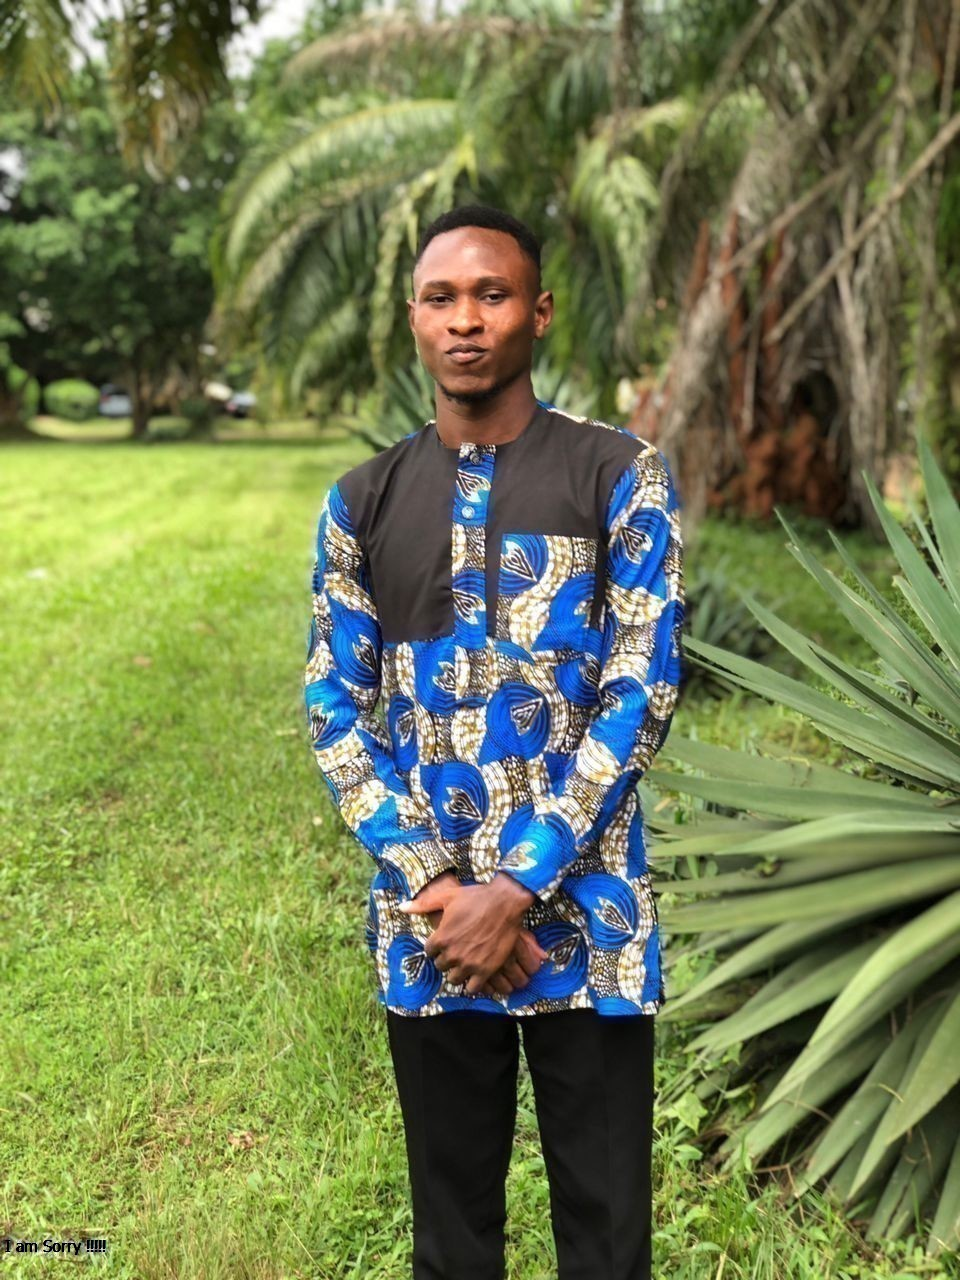
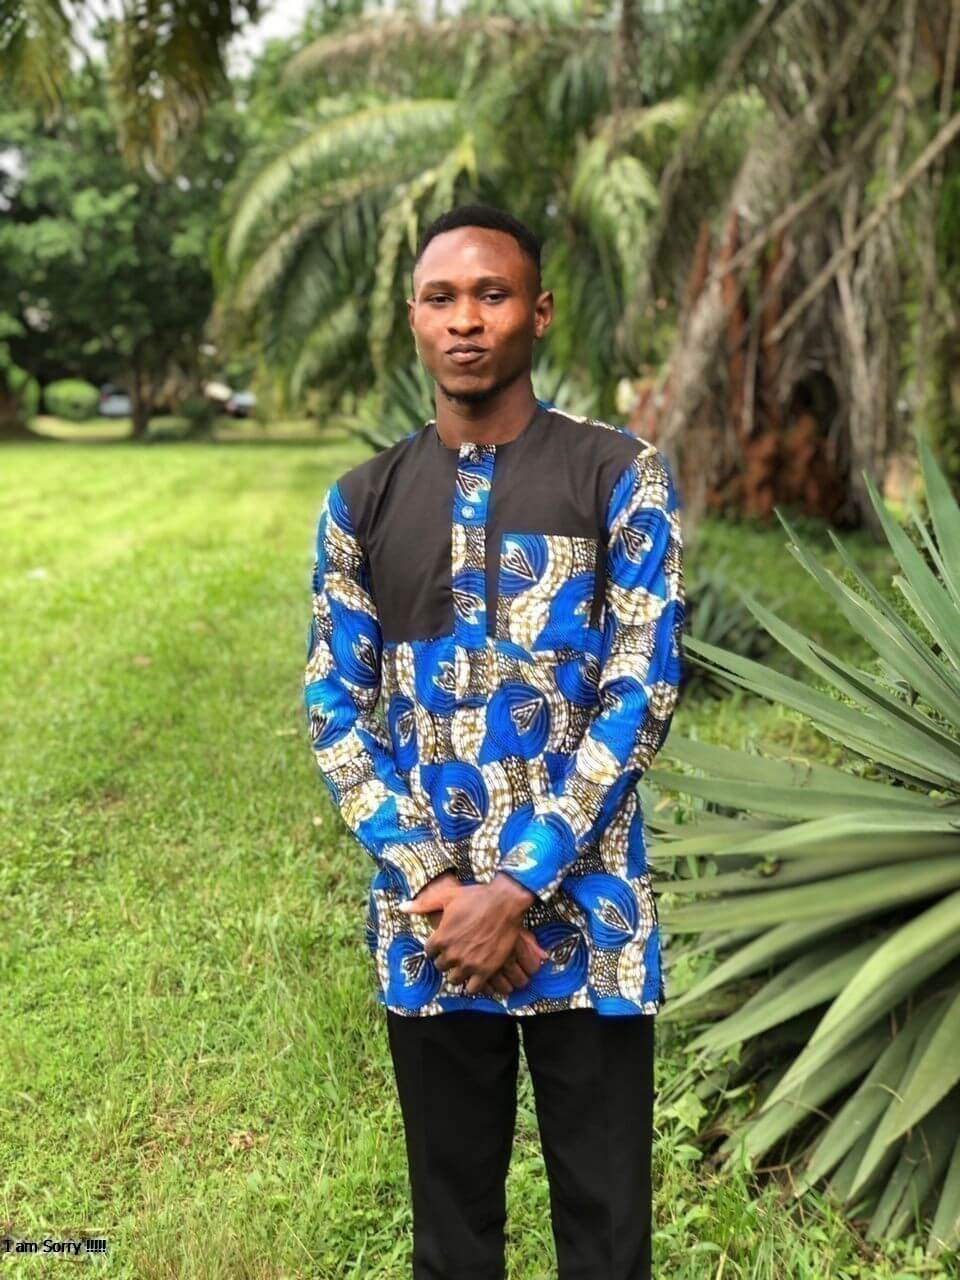
compressed image for faster loading and added hero section

diff --git a/src/components/About.tsx b/src/components/About.tsx
@@ -5,55 +5,61 @@ import AccountIcon from '../../assets/icons/account-25.svg?react';
 
 const About = () => {
 	return (
-		<section className='about-section' id='about'>
-			<h1>About</h1>
-			<div className='about-container'>
-				<div className='carousel'>
-					<figure>
-						<figcaption className='figcaption'>
-							<div className='fig-name'>
-								<AccountIcon />
-								<h3>Gideon Anosike</h3>
-							</div>
-							<p>Web Developer | Building Modern Web Applications</p>
-						</figcaption>
-						<img src={profileImage} alt='profile picture' />
-					</figure>
-					<p className='about-me'>
-						I’m a web developer who helps businesses build fast, modern, and
-						user-friendly web applications. My focus is on creating solutions
-						that are not just visually clean, but also practical and efficient
-						to use. With a background in pharmacy, I naturally approach
-						development with attention to detail and structure—building systems
-						that handle data clearly and reliably. I’ve worked on projects
-						including an inventory management system and interactive web
-						applications, and I’m currently deepening my full-stack skills to
-						build more scalable solutions. If you’re looking to build a website,
-						improve an existing product, or add new features, I’m available for
-						freelance work and open to collaborating on impactful projects.
-						<p className='cta'>Let’s build something impactful.</p>
-					</p>
-				</div>
-				<div className='core-skills'>
-					<h3>Top Skills</h3>
-					<ul className='skill-list'>
-						{codingSkills.map((skill) => (
-							<li key={skill.id}>
-								<div className='skill-name'>
-									<img src={skill.logoSrc} alt='' />
-									<h4>{skill.name}:</h4>
+		<>
+			<section className='about-section' id='about'>
+				<h1>About</h1>
+				<div className='about-container'>
+					<div className='carousel'>
+						<figure>
+							<figcaption className='figcaption'>
+								<div className='fig-name'>
+									<AccountIcon />
+									<h3>Gideon Anosike</h3>
 								</div>
-								<div className='progress-bar-container'>
-									<div className='progress-bar' style={{ width: skill.level }}>
-										<p>{skill.level}</p>
+								<p>Web Developer | Building Modern Web Applications</p>
+							</figcaption>
+							<img src={profileImage} alt='profile picture' loading='lazy' />
+						</figure>
+						<p className='about-me'>
+							I’m a web developer who helps businesses build fast, modern, and
+							user-friendly web applications. My focus is on creating solutions
+							that are not just visually clean, but also practical and efficient
+							to use. With a background in pharmacy, I naturally approach
+							development with attention to detail and structure—building
+							systems that handle data clearly and reliably. I’ve worked on
+							projects including an inventory management system and interactive
+							web applications, and I’m currently deepening my full-stack skills
+							to build more scalable solutions. If you’re looking to build a
+							website, improve an existing product, or add new features, I’m
+							available for freelance work and open to collaborating on
+							impactful projects.
+							<p className='cta'>Let’s build something impactful.</p>
+						</p>
+					</div>
+					<div className='core-skills'>
+						<h3>Top Skills</h3>
+						<ul className='skill-list'>
+							{codingSkills.map((skill) => (
+								<li key={skill.id}>
+									<div className='skill-name'>
+										<img src={skill.logoSrc} alt={skill.name} />
+										<h4>{skill.name}:</h4>
 									</div>
-								</div>
-							</li>
-						))}
-					</ul>
+									<div className='progress-bar-container'>
+										<div
+											className='progress-bar'
+											style={{ width: skill.level }}
+										>
+											<p>{skill.level}</p>
+										</div>
+									</div>
+								</li>
+							))}
+						</ul>
+					</div>
 				</div>
-			</div>
-		</section>
+			</section>
+		</>
 	);
 };
 

diff --git a/src/components/Contact.tsx b/src/components/Contact.tsx
@@ -1,7 +1,6 @@
 import { FormEventHandler, useState } from 'react';
 import '../../assets/styles/contact.scss';
 
-import locationImg from '../../assets/images/stones.jpg';
 import mapMarker from '../../assets/icons/map-marker.svg';
 import phone from '../../assets/icons/phone.svg';
 import mail from '../../assets/icons/email.svg';
@@ -30,23 +29,24 @@ const Contact = () => {
 			<div className='contact-detail-container'>
 				<div className='left-content'>
 					<img
-						src={locationImg}
+						src='../../assets/images/IMG_1402.JPG'
 						alt='my location image'
+						loading='lazy'
 						className='residence-img'
 					/>
 				</div>
 				<div className='right-content'>
 					<ul className='contact-info-list'>
 						<li className='contact'>
-							<img src={mapMarker} alt='' />
-							<span>Anambra, Nigeria</span>
+							<img src={mapMarker} alt='map marker' />
+							<span>Lagos, Nigeria</span>
 						</li>
 						<li className='contact'>
-							<img src={phone} alt='' />
+							<img src={phone} alt='phone icon' />
 							<span>Phone: +234 90 6615 0628</span>
 						</li>
 						<li className='contact'>
-							<img src={mail} alt='' />
+							<img src={mail} alt='email icon' />
 							<span>Email: anosykegideon@gmail.com</span>
 						</li>
 					</ul>

diff --git a/assets/styles/main.scss b/assets/styles/main.scss
@@ -122,6 +122,47 @@ body {
   display: none;
 }
 
+// HERO SECTION STYLES
+.hero {
+  max-width: 1100px;
+  margin: 0 auto;
+  background-color: $secondary;
+  padding-top: 2rem;
+}
+
+.hero h1 {
+  font-size: 2.2rem;
+  font-weight: 700;
+  line-height: 1.3;
+}
+
+.hero p {
+  margin-top: 1rem;
+  color: #555;
+  font-size: 1rem;
+}
+
+.hero-cta {
+
+  padding-top: 2rem;
+  display: flex;
+  gap: 20px;
+  // start flex at centre
+  justify-content: center;
+}
+
+.btn-primary {
+  background: #4f46e5;
+  color: white;
+  padding: 0.7rem 1.2rem;
+  border-radius: 8px;
+}
+
+.btn-secondary {
+  border: 1px solid #ccc;
+  padding: 0.7rem 1.2rem;
+  border-radius: 8px;
+}
 
 // ABOUT STYLES
 .about-section {

diff --git a/src/components/Header.tsx b/src/components/Header.tsx
@@ -65,6 +65,28 @@ const Header = () => {
 					</form>
 				</div>
 			</header>
+			<section className='hero'>
+				<h1>I help businesses build fast, modern web applications</h1>
+
+				<p>
+					I design and develop responsive websites and web apps that are clean,
+					efficient, and built to solve real problems.
+				</p>
+
+				<p>
+					Whether you need a new website, a feature upgrade, or a custom tool, I
+					can help bring your idea to life.
+				</p>
+
+				<div className='hero-cta'>
+					<a href='#portfolio' className='btn-primary'>
+						See My Projects
+					</a>
+					<a href='#contact' className='btn-secondary'>
+						Get In Touch
+					</a>
+				</div>
+			</section>
 		</>
 	);
 };

diff --git a/src/components/Portfolio.tsx b/src/components/Portfolio.tsx
@@ -28,7 +28,7 @@ const Portfolio = () => {
 						</div>
 						<div className='img-container'>
 							<div className='img-frame'>
-								<img src={project.imgSrc} alt={project.name} />
+								<img src={project.imgSrc} alt={project.name} loading='lazy' />
 							</div>
 						</div>
 					</div>

diff --git a/src/App.tsx b/src/App.tsx
@@ -9,8 +9,8 @@ function App() {
 		<div className='container'>
 			<Header />
 			<main className='main'>
-				<About />
 				<Portfolio />
+				<About />
 				<Contact />
 			</main>
 			<Footer />
